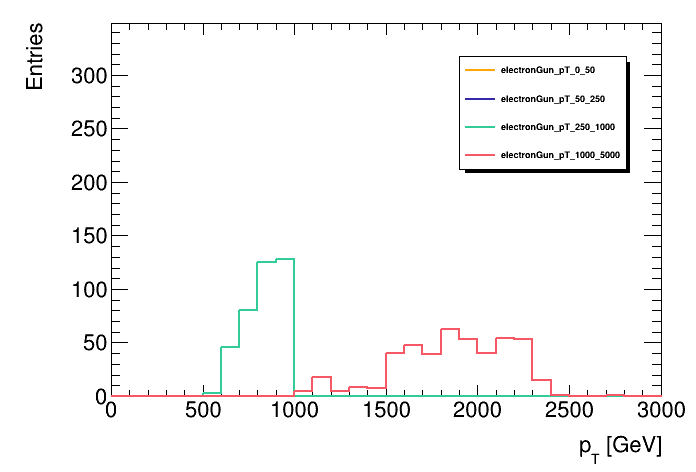
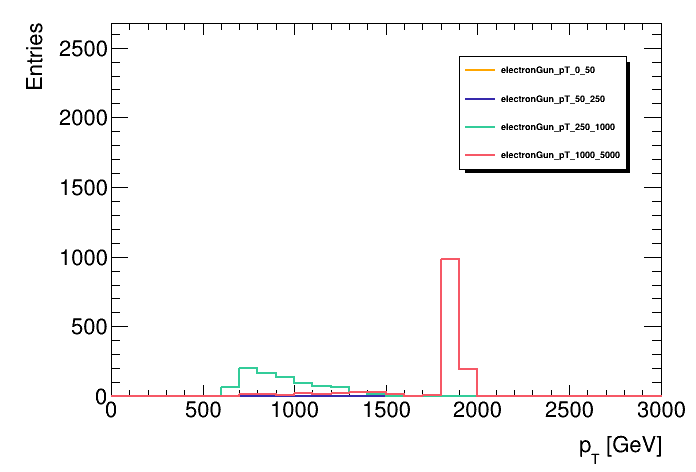
attempting to fix cluster issues

diff --git a/electronStudies.py b/electronStudies.py
@@ -38,7 +38,7 @@ for s in samples:
 hists = {}
 for s in files:
     hists[s] = {}
-    for obj in ["pfo", "pfo_el","pfo_el_match", "mcp", "mcp_el", "mcp_el_match", "trk", "trk_el", "trk_el_match",  "clusters", "clusters_el", "clusters_el_match"]:
+    for obj in ["pfo","pfo_el","pfo_el_match", "mcp", "mcp_el", "trk", "trk_el", "trk_el_match",  "clusters", "clusters_el_match"]:
         for vtype in ["obj", "evt"]:
             for var in variables[vtype]:
                 hists[s][obj+"_"+var] = ROOT.TH1F(s+"_"+obj+"_"+var, s, variables[vtype][var]["nbins"], variables[vtype][var]["xmin"], variables[vtype][var]["xmax"])
@@ -81,6 +81,10 @@ for s in files:
 # Perform matching between two TLVs
 def isMatched(tlv1, tlv2):
     if tlv1.DeltaR(tlv2) < 0.1 and abs(tlv1.Perp()-tlv2.Perp())/tlv2.Perp() < 0.2:
+        return True
+    return False
+def isClusterMatched(tlv1, tlv2):
+    if tlv1.DeltaR(tlv2) < .2 and abs(tlv1.Perp() - tlv2.Perp()) / tlv2.Perp() < .5:
         return True
     return False
 
@@ -176,23 +180,23 @@ for s in files:
 
             hists[s]["pfo_n"].Fill(n_pfo)
             hists[s]["pfo_el_n"].Fill(n_pfo_el)
-            hists[s]["mcp_el_match_n"].Fill(n_matched_el)
 
 
             ### loop over clusters
+            
+
             for cluster in clusters:
                 cluster_tlv = getClusterTLV(cluster)
                 fillObjHists(hists[s], "clusters", cluster_tlv)
                 n_clusters += 1
                 
-              #  if my_mcp_el is None:
-            #        print("No MC electron to match against in this event.")
-                if isMatched(cluster_tlv, my_mcp_el):
-                    fillObjHists(hists[s], "clusters_el_match", my_mcp_el)
+                if isClusterMatched(cluster_tlv, my_mcp_el):
+                    fillObjHists(hists[s], "clusters_el_match", cluster_tlv)
                     n_matched_clusters += 1
+               
+
                     
             hists[s]["clusters_n"].Fill(n_clusters)
-            hists[s]["clusters_el_n"].Fill(n_matched_clusters)
 
             ######## Loop over tracks
             for trk in trks:
